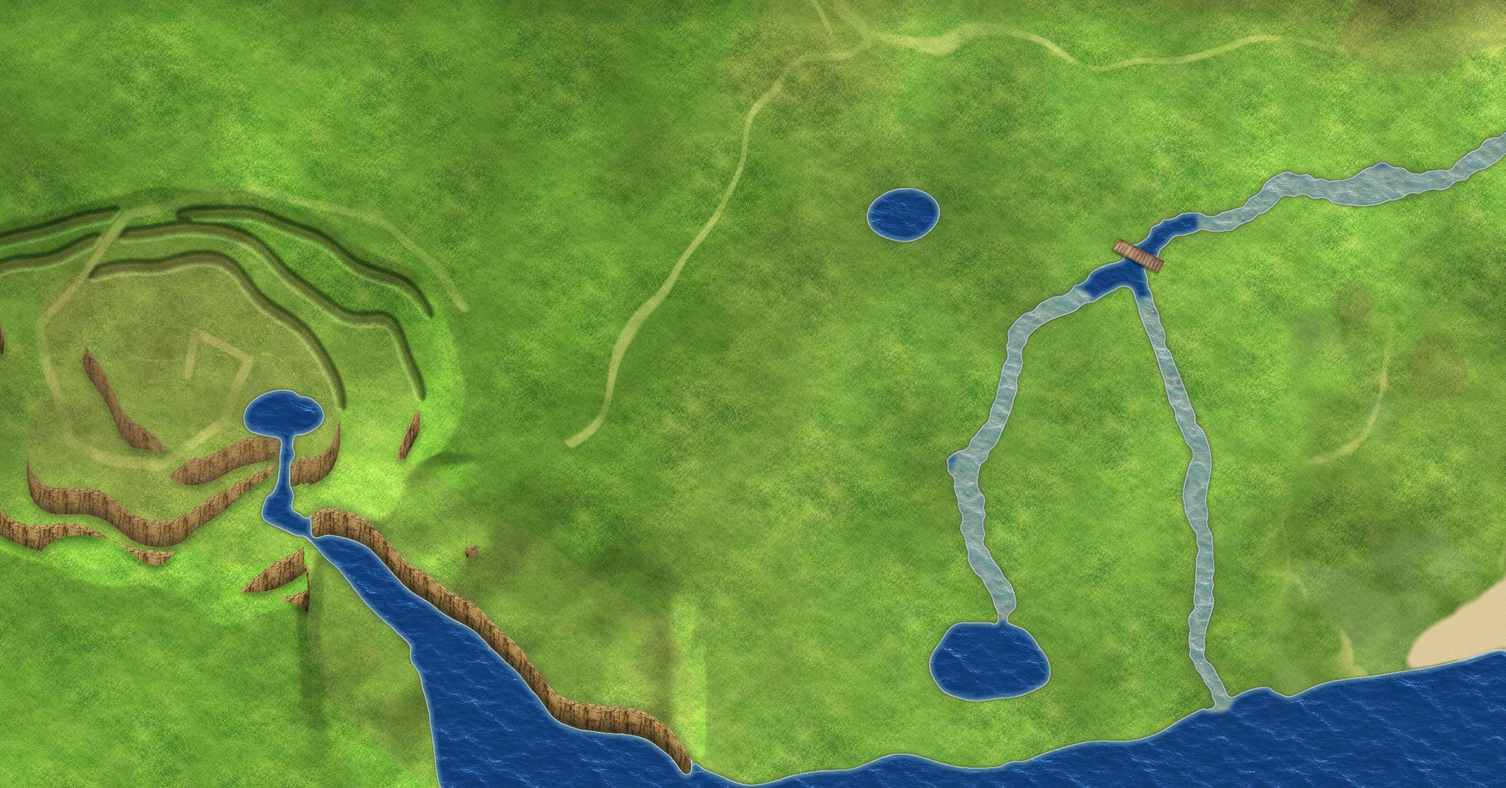
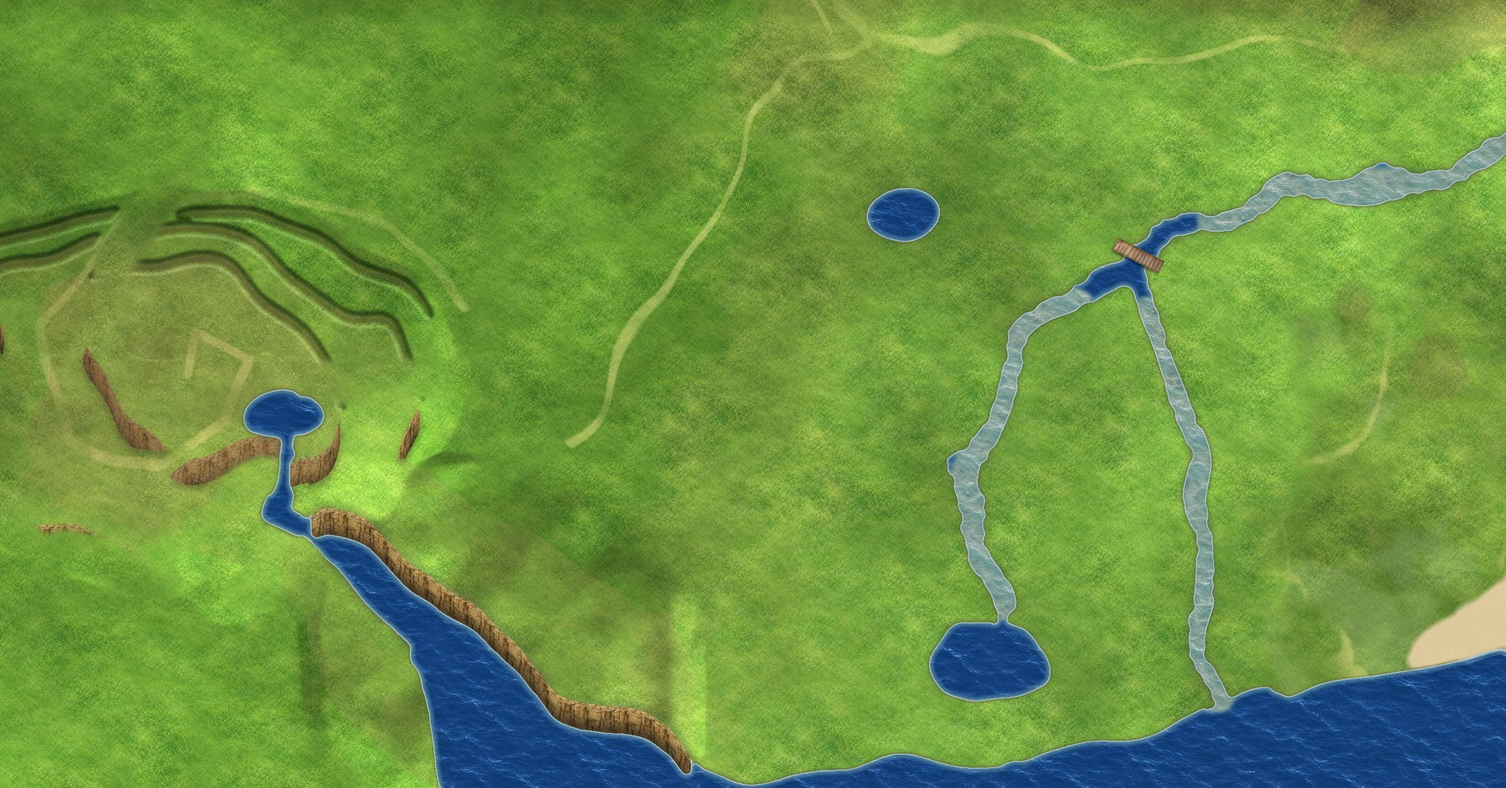
地图：按开发者面板涂的绿线打通上山的路（拆掉崖壁和碰撞，换成同地图的草地纹理）；新增 tools/open_paths.py
Claude-Session: https://claude.ai/code/session_011WrGna6yNwTfpmyp4CxMHs

diff --git a/tools/open_paths.py b/tools/open_paths.py
@@ -1,0 +1,47 @@
+"""把开发者面板「全图」里涂的绿色线条变成可走的草地：拆掉碰撞阻挡、崖壁换成草地纹理、移开路上的物件（水面保留）。
+用法：python3 tools/open_paths.py art_src/map/paths_xxx.json [宽度=40]（坐标是缩小后的世界坐标）"""
+import json,sys,os,numpy as np,cv2
+from PIL import Image
+Image.MAX_IMAGE_PIXELS=None
+R=os.path.dirname(os.path.dirname(os.path.abspath(__file__)));M=R+'/assets/map/'
+L=json.load(open(sys.argv[1]));WID=float(sys.argv[2]) if len(sys.argv)>2 else 40
+J=json.load(open(R+'/data/world.json'));HD=J['HD'];T=J['tiles']['T'];W,H=J['WW'],J['WH']
+full=np.zeros((H*HD,W*HD,3),np.uint8)
+for t in J['tiles']['list']:
+    tx,ty=int(t[1]),int(t[2]);im=np.array(Image.open(M+t+'.jpg').convert('RGB'));full[ty*T*HD:ty*T*HD+im.shape[0],tx*T*HD:tx*T*HD+im.shape[1]]=im
+mask=np.zeros(full.shape[:2],np.uint8)
+for s in L:
+    if s['颜色']!='#20d060':continue
+    pts=np.array([[x*HD,y*HD] for x,y in s['点']],np.int32)
+    if len(pts)==1:cv2.circle(mask,tuple(pts[0]),int(WID*HD/2),255,-1)
+    else:cv2.polylines(mask,[pts],False,255,int(WID*HD),lineType=cv2.LINE_AA)
+f=full.astype(int);water=(f[...,2]>f[...,1]+10)&(f[...,2]>90)   # 水面不动
+water=cv2.dilate(water.astype(np.uint8),np.ones((9,9),np.uint8))>0
+m=(mask>0)&~water
+# 草地纹理：取地图中部一块平坦草地（同一画风），做成无缝后平铺，再按周围颜色校正
+S=int(200*HD);best=None
+for py in range(100*HD,(H-260)*HD,60*HD):   # 自动找一块最纯的草地（不含水、崖、路）
+    for px in range(100*HD,(W-260)*HD,60*HD):
+        q=f[py:py+S:6,px:px+S:6];sm=cv2.blur(q[...,1].astype(np.float32),(9,9));bad=((q[...,2]>q[...,1]-10)|(q[...,0]>q[...,1]-5)).mean()*5+sm.std()/20   # 不含水、崖、路，颜色最平均
+        if best is None or bad<best[0]:best=(bad,px,py)
+_,px,py=best
+cell=full[py:py+S,px:px+S].astype(np.float32)
+b_=int(S*.3);sh=np.roll(np.roll(cell,S//2,0),S//2,1);d_=np.minimum(np.arange(S),S-1-np.arange(S));w_=np.clip(np.minimum.outer(d_,d_)/b_,0,1)[...,None];cell=sh*(1-w_)+cell*w_
+tile=np.tile(cell,(full.shape[0]//S+1,full.shape[1]//S+1,1))[:full.shape[0],:full.shape[1]]
+grassy=(f[...,1]>f[...,0]+10)&(f[...,1]>f[...,2]+20)   # 只拿草色当参考，避开崖壁
+ring=(cv2.dilate(m.astype(np.uint8),np.ones((61,61),np.uint8))>0)&~m&~water&grassy
+local=cv2.GaussianBlur(np.where(ring[...,None],full,0).astype(np.float32),(0,0),40)/np.maximum(cv2.GaussianBlur(ring.astype(np.float32),(0,0),40),1e-3)[...,None]
+tm=cv2.GaussianBlur(tile,(0,0),40);tile=np.clip(tile-tm+local,0,255)
+a=cv2.GaussianBlur(m.astype(np.float32),(0,0),6)[...,None]
+out=(full*(1-a)+tile*a).astype(np.uint8)
+for t in J['tiles']['list']:
+    tx,ty=int(t[1]),int(t[2]);Image.fromarray(out[ty*T*HD:(ty+1)*T*HD,tx*T*HD:(tx+1)*T*HD]).save(M+t+'.jpg',quality=80,optimize=True)
+# 碰撞：涂到的地方（非水）改成可走
+c=np.array(Image.open(M+'coll.png').convert('RGB'));ms=cv2.resize(m.astype(np.uint8),(W,H),interpolation=cv2.INTER_AREA)>0
+c[...,0][ms&(c[...,0]==1)]=0;Image.fromarray(c).save(M+'coll.png')
+# 物件：路上的移走
+n0=len(J['objs']);J['objs']=[o for o in J['objs'] if not (0<=o[2]<H and 0<=o[1]<W and ms[min(H-1,int(o[2])),min(W-1,int(o[1]))]) or 'bridge' in o[0]]
+J['ver']=J.get('ver',0)+1;json.dump(J,open(R+'/data/world.json','w'),ensure_ascii=False,separators=(',',':'))
+Image.fromarray(out[100*HD:700*HD,0:600*HD]).resize((600,600)).save(R+'/art_src/build/paths_preview.png')
+Image.fromarray(full[100*HD:700*HD,0:600*HD]).resize((600,600)).save(R+'/art_src/build/paths_before.png')
+print('opened',int(ms.sum()),'cells; objs',n0,'->',len(J['objs']))
